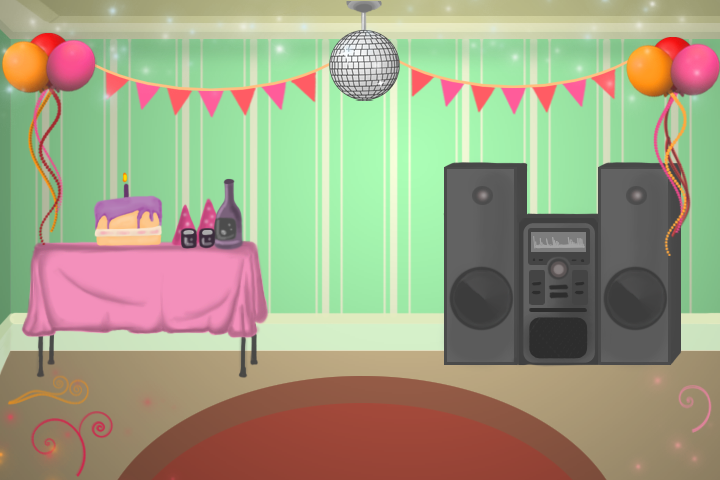
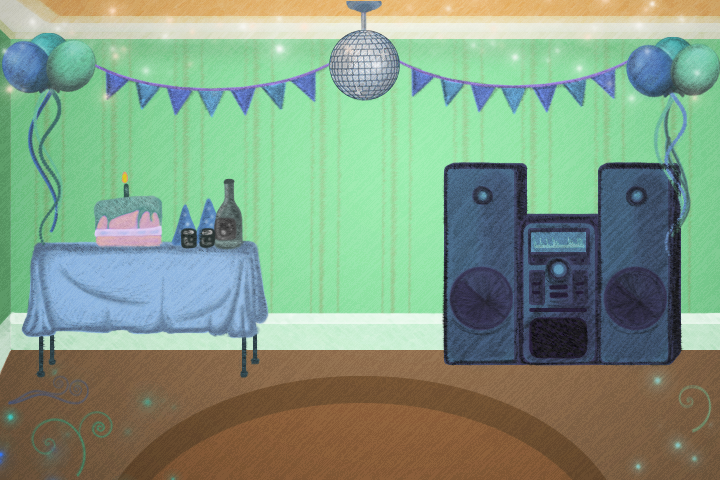
New art implemented
Implemented the new art in the Party, Manic, and Depression scenes.

diff --git a/Combined/Combined.js b/Combined/Combined.js
@@ -78,7 +78,7 @@ function preload()
 	*Load Manic Graphics
 	*/
 		//Sprites
-	bgAnimation = new createjs.SpriteSheet({images: ["Art/Manic/Fractal Animation/art_fractal.png"], frames: [[0,0,720,481,0,360,239.55],[720,0,720,481,0,360,239.55],[1440,0,720,481,0,360,239.55],[2160,0,720,481,0,360,239.55],[2880,0,720,481,0,360,239.55],[0,481,720,481,0,360,239.55],[720,481,720,481,0,360,239.55],[1440,481,720,481,0,360,239.55],[2160,481,720,481,0,360,239.55],[2880,481,720,481,0,360,239.55],[0,962,720,481,0,360,239.55],[720,962,720,481,0,360,239.55],[1440,962,720,481,0,360,239.55],[2160,962,720,481,0,360,239.55],[2880,962,720,481,0,360,239.55],[0,1443,720,481,0,360,239.55],[720,1443,720,481,0,360,239.55],[1440,1443,720,481,0,360,239.55],[2160,1443,720,481,0,360,239.55],[2880,1443,720,481,0,360,239.55],[0,1924,720,481,0,360,239.55],[720,1924,720,481,0,360,239.55],[1440,1924,720,481,0,360,239.55],[2160,1924,720,481,0,360,239.55],[2880,1924,720,481,0,360,239.55],[0,2405,720,481,0,360,239.55],[720,2405,720,481,0,360,239.55],[1440,2405,720,481,0,360,239.55],[2160,2405,720,481,0,360,239.55],[2880,2405,720,481,0,360,239.55],[0,2886,720,481,0,360,239.55]]});
+    bgAnimation = new createjs.SpriteSheet({images: ["Art/Manic/Fractal Animation/art_fractal.png"], frames: [[0,0,721,480,0,360.15,240],[721,0,721,480,0,360.15,240],[1442,0,721,480,0,360.15,240],[2163,0,721,480,0,360.15,240],[2884,0,721,480,0,360.15,240],[0,480,721,480,0,360.15,240],[721,480,721,480,0,360.15,240],[1442,480,721,480,0,360.15,240],[2163,480,721,480,0,360.15,240],[2884,480,721,480,0,360.15,240],[0,960,721,480,0,360.15,240],[721,960,721,480,0,360.15,240],[1442,960,721,480,0,360.15,240],[2163,960,721,480,0,360.15,240],[2884,960,721,480,0,360.15,240],[0,1440,721,480,0,360.15,240],[721,1440,721,480,0,360.15,240],[1442,1440,721,480,0,360.15,240],[2163,1440,721,480,0,360.15,240],[2884,1440,721,480,0,360.15,240],[0,1920,721,480,0,360.15,240],[721,1920,721,480,0,360.15,240],[1442,1920,721,480,0,360.15,240],[2163,1920,721,480,0,360.15,240],[2884,1920,721,480,0,360.15,240],[0,2400,721,480,0,360.15,240],[721,2400,721,480,0,360.15,240],[1442,2400,721,480,0,360.15,240],[2163,2400,721,480,0,360.15,240],[2884,2400,721,480,0,360.15,240],[0,2880,721,480,0,360.15,240]]});
 	bgSprite = new createjs.Sprite(bgAnimation,0);
 	bgSprite.x = 360;
 	bgSprite.y = 240;
@@ -197,10 +197,9 @@ function preload()
     personFlash3 = new createjs.Sprite(person3Ani);
     personFlash3.x = 20;
     personFlash3.y = 400;
-	
-    orbAni = new createjs.SpriteSheet({images: ["Art/Depression/art_flashlight.png"], frames: [[0,0,721,481,0,355.5,230.5],[721,0,721,481,0,355.5,230.5],[1442,0,721,481,0,355.5,230.5],[2163,0,721,481,0,355.5,230.5],[2884,0,721,481,0,355.5,230.5],[3605,0,721,481,0,355.5,230.5],[4326,0,721,481,0,355.5,230.5],[5047,0,721,481,0,355.5,230.5],[5768,0,721,481,0,355.5,230.5],[6489,0,721,481,0,355.5,230.5],[7210,0,721,481,0,355.5,230.5],[0,481,721,481,0,355.5,230.5],[721,481,721,481,0,355.5,230.5],[1442,481,721,481,0,355.5,230.5],[2163,481,721,481,0,355.5,230.5],[2884,481,721,481,0,355.5,230.5],[3605,481,721,481,0,355.5,230.5],[4326,481,721,481,0,355.5,230.5],[5047,481,721,481,0,355.5,230.5],[5768,481,721,481,0,355.5,230.5],[6489,481,721,481,0,355.5,230.5],[7210,481,721,481,0,355.5,230.5],[0,962,721,481,0,355.5,230.5],[721,962,721,481,0,355.5,230.5],[1442,962,721,481,0,355.5,230.5],[2163,962,721,481,0,355.5,230.5],[2884,962,721,481,0,355.5,230.5],[3605,962,721,481,0,355.5,230.5],[4326,962,721,481,0,355.5,230.5],[5047,962,721,481,0,355.5,230.5],[5768,962,721,481,0,355.5,230.5],[6489,962,721,481,0,355.5,230.5],[7210,962,721,481,0,355.5,230.5],[0,1443,721,481,0,355.5,230.5],[721,1443,721,481,0,355.5,230.5],[1442,1443,721,481,0,355.5,230.5],[2163,1443,721,481,0,355.5,230.5],[2884,1443,721,481,0,355.5,230.5],[3605,1443,721,481,0,355.5,230.5],[4326,1443,721,481,0,355.5,230.5],[5047,1443,721,481,0,355.5,230.5],[5768,1443,721,481,0,355.5,230.5],[6489,1443,721,481,0,355.5,230.5],[7210,1443,721,481,0,355.5,230.5],[0,1924,721,481,0,355.5,230.5],[721,1924,721,481,0,355.5,230.5],[1442,1924,721,481,0,355.5,230.5],[2163,1924,721,481,0,355.5,230.5]]});
-    depthAni = new createjs.SpriteSheet({images: ["Art/Depression/art_depthMeter.png"], frames: [[0,0,355,237,0,177.45,114.5],[355,0,355,237,0,177.45,114.5],[710,0,355,237,0,177.45,114.5],[1065,0,355,237,0,177.45,114.5],[1420,0,355,237,0,177.45,114.5],[0,237,355,237,0,177.45,114.5],[355,237,355,237,0,177.45,114.5],[710,237,355,237,0,177.45,114.5],[1065,237,355,237,0,177.45,114.5],[1420,237,355,237,0,177.45,114.5],[0,474,355,237,0,177.45,114.5],[355,474,355,237,0,177.45,114.5],[710,474,355,237,0,177.45,114.5],[1065,474,355,237,0,177.45,114.5],[1420,474,355,237,0,177.45,114.5],[0,711,355,237,0,177.45,114.5],[355,711,355,237,0,177.45,114.5],[710,711,355,237,0,177.45,114.5],[1065,711,355,237,0,177.45,114.5],[1420,711,355,237,0,177.45,114.5]]});
-	depthBack = new createjs.Bitmap("Art/Depression/art_depthBack.png");
+
+    orbAni = new createjs.SpriteSheet({images: ["Art/Depression/Orbs/art_flashlight.png"], frames: [[0,0,721,480,0,355.5,230],[721,0,721,480,0,355.5,230],[1442,0,721,480,0,355.5,230],[2163,0,721,480,0,355.5,230],[2884,0,721,480,0,355.5,230],[0,480,721,480,0,355.5,230],[721,480,721,480,0,355.5,230],[1442,480,721,480,0,355.5,230],[2163,480,721,480,0,355.5,230],[2884,480,721,480,0,355.5,230],[0,960,721,480,0,355.5,230],[721,960,721,480,0,355.5,230],[1442,960,721,480,0,355.5,230],[2163,960,721,480,0,355.5,230],[2884,960,721,480,0,355.5,230],[0,1440,721,480,0,355.5,230],[721,1440,721,480,0,355.5,230],[1442,1440,721,480,0,355.5,230],[2163,1440,721,480,0,355.5,230],[2884,1440,721,480,0,355.5,230],[0,1920,721,480,0,355.5,230]]});
+    depthAni = new createjs.SpriteSheet({images: ["Art/Depression/DepthMeter/art_depthMeterAni.png"], frames: [[0,0,721,481,0,359.9,232.5],[721,0,721,481,0,359.9,232.5],[1442,0,721,481,0,359.9,232.5],[2163,0,721,481,0,359.9,232.5],[2884,0,721,481,0,359.9,232.5],[0,481,721,481,0,359.9,232.5],[721,481,721,481,0,359.9,232.5],[1442,481,721,481,0,359.9,232.5],[2163,481,721,481,0,359.9,232.5],[2884,481,721,481,0,359.9,232.5],[0,962,721,481,0,359.9,232.5],[721,962,721,481,0,359.9,232.5],[1442,962,721,481,0,359.9,232.5],[2163,962,721,481,0,359.9,232.5],[2884,962,721,481,0,359.9,232.5],[0,1443,721,481,0,359.9,232.5],[721,1443,721,481,0,359.9,232.5],[1442,1443,721,481,0,359.9,232.5],[2163,1443,721,481,0,359.9,232.5],[2884,1443,721,481,0,359.9,232.5],[0,1924,721,481,0,359.9,232.5],[721,1924,721,481,0,359.9,232.5],[1442,1924,721,481,0,359.9,232.5],[2163,1924,721,481,0,359.9,232.5],[2884,1924,721,481,0,359.9,232.5],[0,2405,721,481,0,359.9,232.5],[721,2405,721,481,0,359.9,232.5],[1442,2405,721,481,0,359.9,232.5]]});	depthBack = new createjs.Bitmap("Art/Depression/art_depthBack.png");
 	depthPerson = new createjs.Bitmap("Art/Depression/art_depthPerson.png");
 	
 	//Initialize the menu now that we are done preloading the stages
